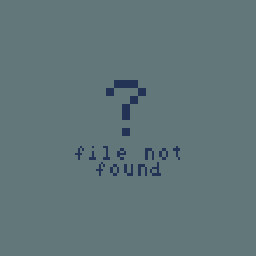
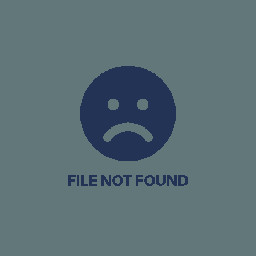
css fixes, new filenotfound.jpg

Changed region(s): [[0.25, 0.25, 0.75, 0.75]]

diff --git a/themes/sixtyth-fortran/layouts/partials/listReviews.html b/themes/sixtyth-fortran/layouts/partials/listReviews.html
@@ -6,7 +6,7 @@
 {{- partialCached "display-dropdown-movie.html" . -}}
 {{- partialCached "display-dropdown-year.html" . -}}
 </div>
-<div id="loadingText" style="visibility:visible; text-align:center; margin-top:1em; color:var(--yellow)">Loading. . .</div>
+<div id="loadingText" class="loading-text">Loading. . .</div>
 <div id="tagsContainer" style="visibility:hidden;">
     {{- $listPages := sort .Pages "Params.startDate" "desc" -}}
     {{- range $listPages -}}

diff --git a/themes/sixtyth-fortran/layouts/partials/listNewsArticles.html b/themes/sixtyth-fortran/layouts/partials/listNewsArticles.html
@@ -6,7 +6,7 @@
 {{- partialCached "display-dropdown-movie.html" . -}}
 {{- partialCached "display-dropdown-year.html" . -}}
 </div>
-<div id="loadingText" style="visibility:visible; text-align:center; margin-top:1em; color:var(--yellow)">Loading. . .</div>
+<div id="loadingText" class="loading-text">Loading. . .</div>
 <div id="tagsContainer" style="visibility:hidden;">
   {{- $listPages := sort .Pages "Params.startDate" "desc" -}}
   {{- range $listPages -}}

diff --git a/themes/sixtyth-fortran/layouts/partials/baseList.html b/themes/sixtyth-fortran/layouts/partials/baseList.html
@@ -6,7 +6,7 @@
 {{- partialCached "display-dropdown-movie.html" . -}}
 {{- partialCached "display-dropdown-year.html" . -}}
 </div>
-<div id="loadingText" style="visibility:visible; text-align:center; margin-top:1em; color:var(--yellow)">Loading. . .</div>
+<div id="loadingText" class="loading-text">Loading. . .</div>
 <div id="tagsContainer" style="visibility:hidden;">
     {{- $listPages := sort .Pages "Params.startDate" -}}
     {{- range $listPages -}}

diff --git a/themes/sixtyth-fortran/layouts/partials/listLocations.html b/themes/sixtyth-fortran/layouts/partials/listLocations.html
@@ -9,7 +9,7 @@
 {{- partialCached "display-dropdown-movie.html" . -}}
 {{- partialCached "display-dropdown-year.html" . -}}
 </div>
-<div id="loadingText" style="visibility:visible; text-align:center; margin-top:1em; color:var(--yellow)">Loading. . .</div>
+<div id="loadingText" class="loading-text">Loading. . .</div>
 <div id="tagsContainer" style="visibility:hidden;">
     {{- $listPages := sort .Pages "Params.startDate" -}}
     {{- range $listPages -}}

diff --git a/themes/sixtyth-fortran/layouts/partials/listVideos.html b/themes/sixtyth-fortran/layouts/partials/listVideos.html
@@ -6,7 +6,7 @@
 {{- partialCached "display-dropdown-movie.html" . -}}
 {{- partialCached "display-dropdown-year.html" . -}}
 </div>
-<div id="loadingText" style="visibility:visible; text-align:center; margin-top:1em; color:var(--yellow)">Loading. . .</div>
+<div id="loadingText" class="loading-text">Loading. . .</div>
 <div id="tagsContainer" style="visibility:hidden;">
     {{- $listPages := sort .Pages "Params.startDate" -}}
     {{- range $listPages -}}

diff --git a/themes/sixtyth-fortran/assets/css/main.css b/themes/sixtyth-fortran/assets/css/main.css
@@ -629,6 +629,28 @@ caption {
   }
 }
 
+.loading-text {
+  visibility: visible;
+  text-align: center;
+  margin-top: 1em;
+  color: var(--yellow);
+  letter-spacing: 1em;
+  animation: pulse-spacing 1.5s ease-in-out infinite;
+}
+
+@keyframes pulse-spacing {
+  0% {
+    letter-spacing: 0.8em;
+  }
+  50% {
+    letter-spacing: 1.4em;
+  }
+  100% {
+    letter-spacing: 0.8em;
+  }
+}
+
+
 .article-video iframe{
   width: 100%;
   aspect-ratio: 16/9;

diff --git a/themes/sixtyth-fortran/layouts/partials/list-all-tags.html b/themes/sixtyth-fortran/layouts/partials/list-all-tags.html
@@ -13,7 +13,7 @@
 
 
 {{- $pages := .Site.RegularPages -}}
-<div id="loadingText" style="visibility:visible; text-align:center; margin-top:1em; color:var(--yellow)">Loading. . .</div>
+<div id="loadingText" class="loading-text">Loading. . .</div>
 <div id="tagsContainer" style="visibility:hidden;">
   {{- $tags := dict -}} <!-- Initialize a dictionary to store tags and counts -->
   {{- range $pages -}}
